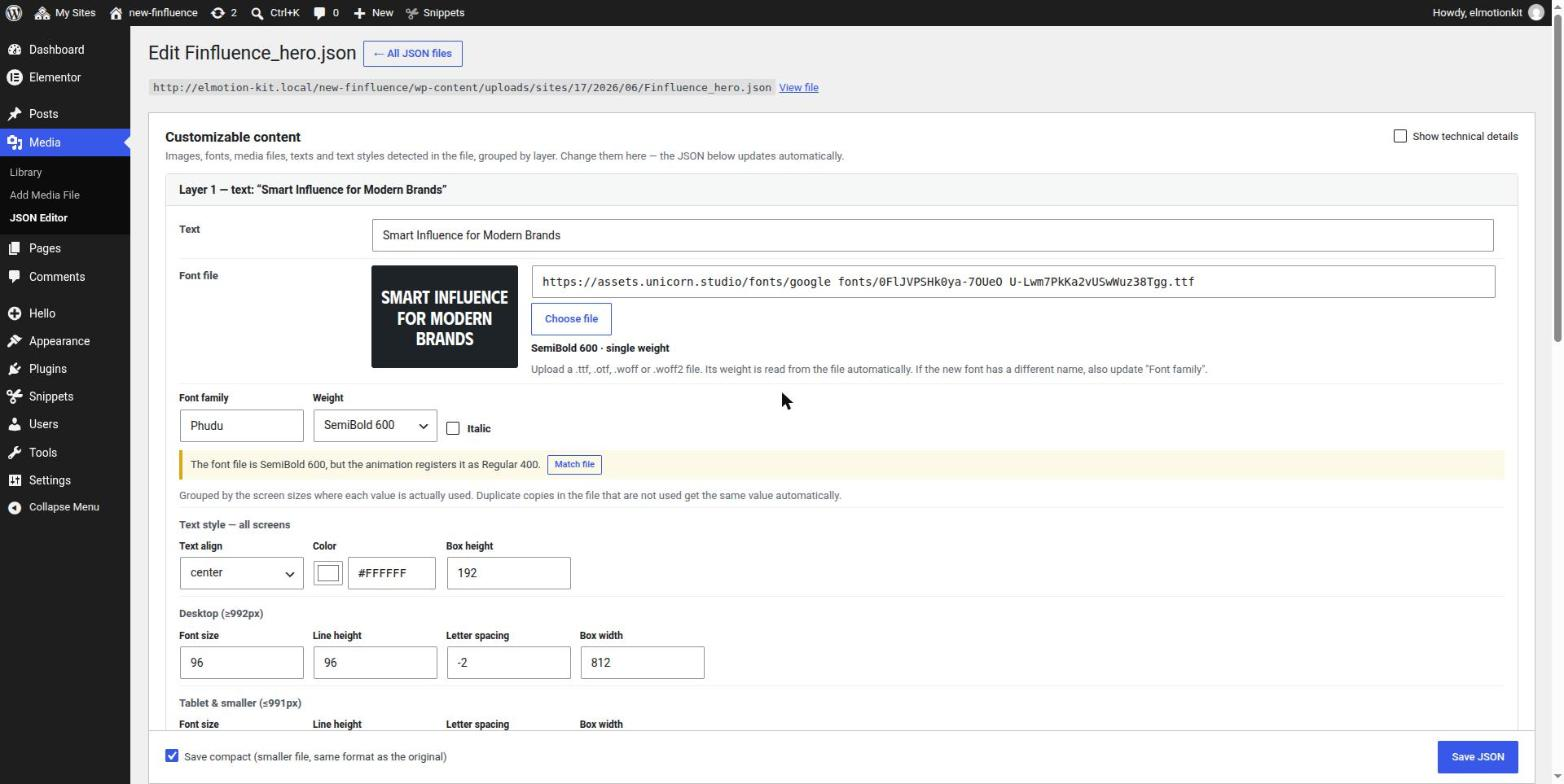
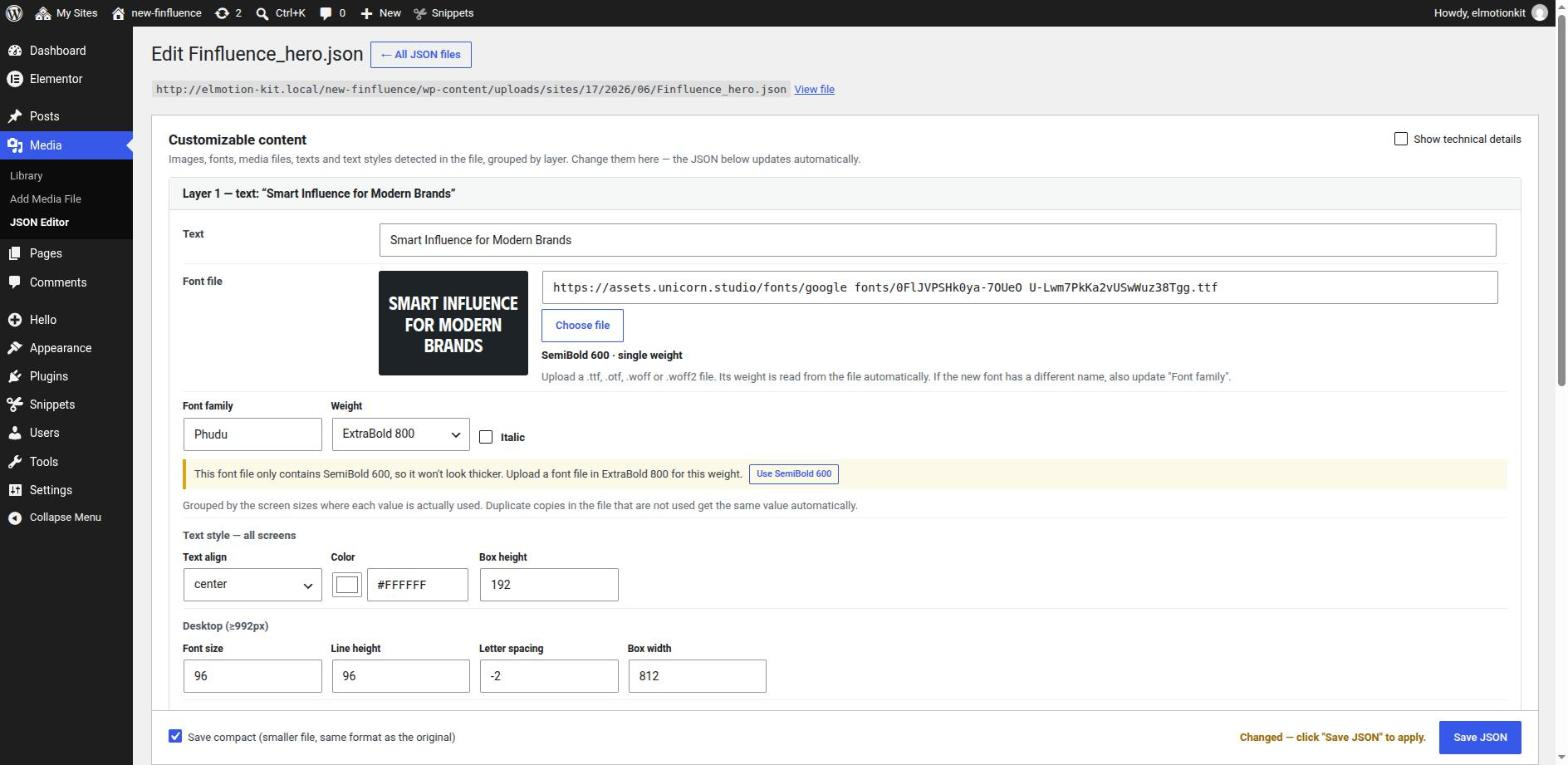
Make font weight notes match how browsers render
Chrome only adds synthetic bold, one fixed step, when 600+ is requested
from a file lighter than 600, and it looks at the real weight inside the
file rather than fontWeight. Drop the misleading "registered as" note,
split the thicker case into artificial bold vs. no visible change, and
offer "Use file weight" where the weight won't show.

diff --git a/assets/admin.js b/assets/admin.js
@@ -849,7 +849,6 @@
 		function refresh() {
 			var owner = getAt( parse( getText() ).data, group.path ) || {};
 			var drawn = drawnStyle( owner );
-			var registered = registeredWeight( owner );
 			var info = group.font ? group.font.info : null;
 
 			if ( ! $weight.find( 'option[value="' + drawn.weight + '"]' ).length ) {
@@ -866,31 +865,32 @@
 				note( t( 'italicWeight', 'Unicorn Studio can\'t combine italic with a weight, so italic text is always drawn at Regular 400.' ) );
 			}
 
+			// Browsers look at the real weight inside the file (not fontWeight): they only add a
+			// synthetic bold, one fixed step, when 600+ is requested from a file lighter than 600.
 			if ( info && ! info.axis ) {
-				if ( registered !== info.weight ) {
-					note(
-						t( 'registeredAs', 'The font file is %1$s, but the animation registers it as %2$s.' ).replace( '%1$s', weightName( info.weight ) ).replace( '%2$s', weightName( registered ) ),
-						t( 'matchFile', 'Match file' ),
-						function () {
-							var value = castLike( owner.fontWeight, String( info.weight ) );
-							apply( [ { path: group.path.concat( 'fontWeight' ), value: value } ] );
-							updateInputs( [ { path: group.path.concat( 'fontWeight' ), value: value } ] );
-							refresh();
-						}
-					);
-				}
+				var useFileWeight = [
+					t( 'useWeight', 'Use %s' ).replace( '%s', weightName( info.weight ) ),
+					function () {
+						setStyle( String( info.weight ) );
+					},
+				];
+
 				if ( drawn.italic && ! info.italic ) {
 					note( t( 'fakeItalic', 'This font file has no italic style, so the browser slants it artificially.' ) );
 				} else if ( ! drawn.italic && drawn.weight < info.weight ) {
 					note(
 						t( 'thinner', 'This font file only contains %1$s, so a thinner weight won\'t show. Upload a font file in %2$s for this weight.' ).replace( '%1$s', weightName( info.weight ) ).replace( '%2$s', weightName( drawn.weight ) ),
-						t( 'useWeight', 'Use %s' ).replace( '%s', weightName( info.weight ) ),
-						function () {
-							setStyle( String( info.weight ) );
-						}
+						useFileWeight[ 0 ],
+						useFileWeight[ 1 ]
 					);
+				} else if ( ! drawn.italic && drawn.weight > info.weight && drawn.weight >= 600 && info.weight < 600 ) {
+					note( t( 'fakeBold', 'This font file is %1$s, so the browser thickens it artificially, and every weight from 600 up looks the same. Upload a font file in %2$s for a real %2$s.' ).replace( '%1$s', weightName( info.weight ) ).replace( /%2\$s/g, weightName( drawn.weight ) ) );
 				} else if ( ! drawn.italic && drawn.weight > info.weight ) {
-					note( t( 'thicker', 'Thicker than the font file (%1$s): the browser may thicken it artificially. Upload a font file in %2$s for the best result.' ).replace( '%1$s', weightName( info.weight ) ).replace( '%2$s', weightName( drawn.weight ) ) );
+					note(
+						t( 'notThicker', 'This font file only contains %1$s, so it won\'t look thicker. Upload a font file in %2$s for this weight.' ).replace( '%1$s', weightName( info.weight ) ).replace( '%2$s', weightName( drawn.weight ) ),
+						useFileWeight[ 0 ],
+						useFileWeight[ 1 ]
+					);
 				}
 			}
 

diff --git a/includes/class-jme-admin.php b/includes/class-jme-admin.php
@@ -126,15 +126,14 @@ class JME_Admin {
 					'singleWeight' => __( 'single weight', 'json-media-editor' ),
 					/* translators: %s: weight name, e.g. "SemiBold 600". */
 					'useWeight'    => __( 'Use %s', 'json-media-editor' ),
-					'matchFile'    => __( 'Match file', 'json-media-editor' ),
 					'italicWeight' => __( 'Unicorn Studio can\'t combine italic with a weight, so italic text is always drawn at Regular 400.', 'json-media-editor' ),
 					'fakeItalic'   => __( 'This font file has no italic style, so the browser slants it artificially.', 'json-media-editor' ),
-					/* translators: 1: font file weight, 2: weight registered in the JSON. */
-					'registeredAs' => __( 'The font file is %1$s, but the animation registers it as %2$s.', 'json-media-editor' ),
 					/* translators: 1: font file weight, 2: chosen weight. */
 					'thinner'      => __( 'This font file only contains %1$s, so a thinner weight won\'t show. Upload a font file in %2$s for this weight.', 'json-media-editor' ),
 					/* translators: 1: font file weight, 2: chosen weight. */
-					'thicker'      => __( 'Thicker than the font file (%1$s): the browser may thicken it artificially. Upload a font file in %2$s for the best result.', 'json-media-editor' ),
+					'fakeBold'     => __( 'This font file is %1$s, so the browser thickens it artificially, and every weight from 600 up looks the same. Upload a font file in %2$s for a real %2$s.', 'json-media-editor' ),
+					/* translators: 1: font file weight, 2: chosen weight. */
+					'notThicker'   => __( 'This font file only contains %1$s, so it won\'t look thicker. Upload a font file in %2$s for this weight.', 'json-media-editor' ),
 					'allScreens'   => __( 'Text style — all screens', 'json-media-editor' ),
 					'bpNote'       => __( 'Grouped by the screen sizes where each value is actually used. Duplicate copies in the file that are not used get the same value automatically.', 'json-media-editor' ),
 					'fontHint'     => __( 'Upload a .ttf, .otf, .woff or .woff2 file. Its weight is read from the file automatically. If the new font has a different name, also update "Font family".', 'json-media-editor' ),

diff --git a/README.md b/README.md
@@ -13,7 +13,12 @@ It's built for animation tools that load their scene from an uploaded JSON file,
   - **Weight and italic, made simple** (Unicorn Studio text layers). In Unicorn Studio, `fontStyle` sets how thick the text is drawn (`"600"`) or makes it italic (`"italic"`), and `fontWeight` is only the weight the font file is registered with. The editor replaces this pair with:
     - **Font file details.** The weight, italic and variable axis are read from the font file itself (TTF, OTF, WOFF), e.g. *SemiBold 600 · single weight*. Picking a new file registers it with its real weight automatically.
     - **Weight dropdown** (Thin 100 … Black 900) and an **Italic** checkbox. Unicorn Studio can't combine the two: italic text is always drawn at Regular 400, so the dropdown is disabled while Italic is on.
-    - **Plain-language notes**, only when needed: when the weight is thinner than the file (it won't show, with a one-click *Use file weight*), when it's thicker (the browser thickens it artificially), when the file has no italic, or when the JSON registers the file with the wrong weight (*Match file*). Existing values are never changed without a click.
+    - **Plain-language notes**, only when needed. They follow how browsers render a single-weight font file, which depends on the real weight inside the file:
+      - Thinner than the file: it won't show (one-click *Use file weight*).
+      - Thicker than the file: the browser thickens it artificially only when 600+ is chosen and the file is lighter than 600, and every weight from 600 up then looks the same. Otherwise it won't look thicker.
+      - Italic with a file that has no italic: the browser slants it artificially.
+
+      Existing values are never changed without a click.
     - **A preview that matches the animation,** including synthetic bold or italic.
   - **Show technical details** reveals the raw keys and JSON paths for developers.
   - **Other media files.** Video, audio, JSON, 3D models.
